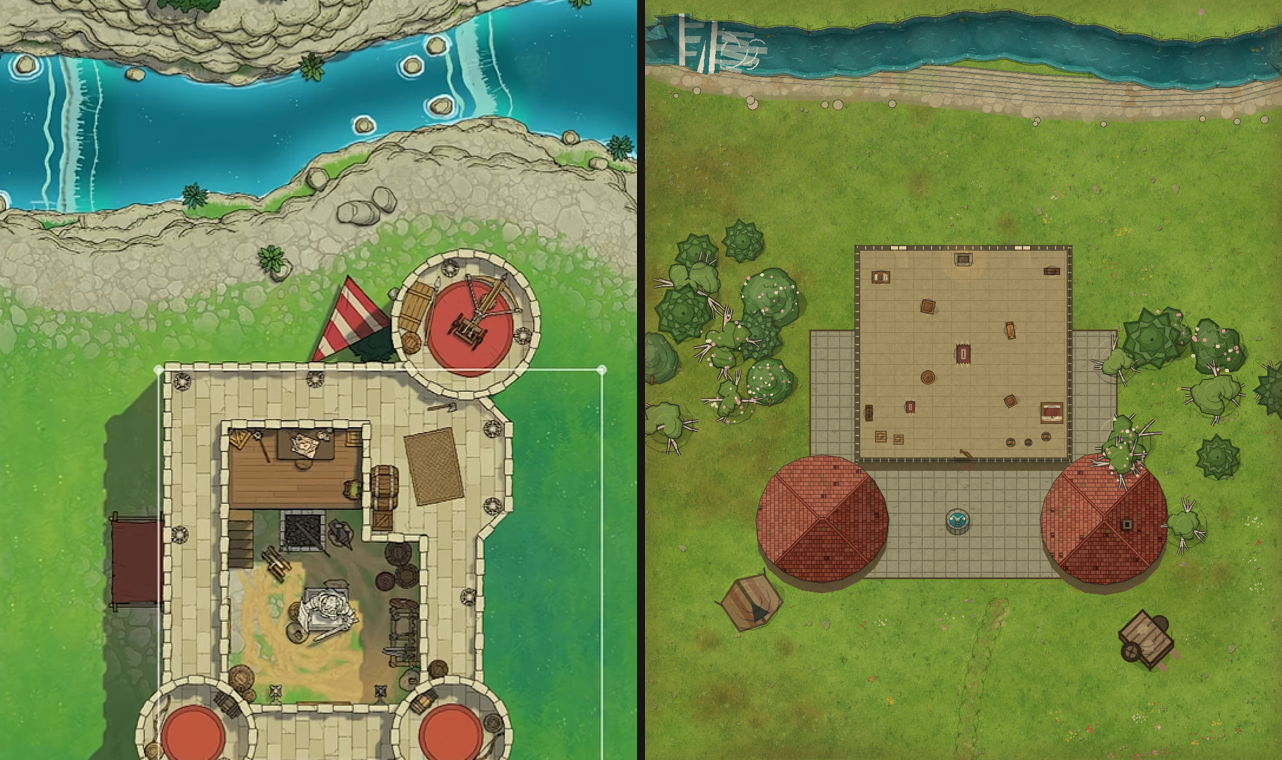
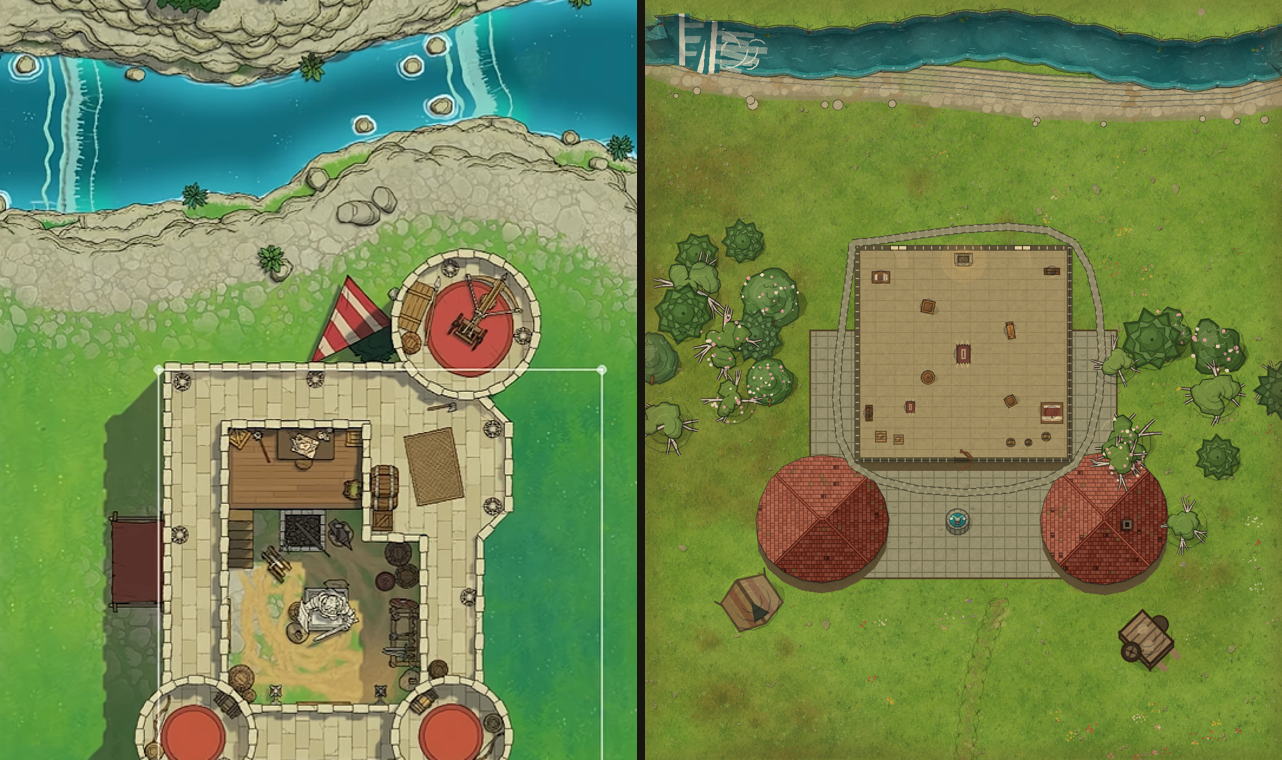
Nimblehold parity: fix multi-top massif wall/band leakage
Same-height massif groups shared the silhouette/top sets — each
massif painted its neighbours' wall slivers and kept foreign tops
in its band, so e.g. ref-08's west plateau read as a flat slate
slab instead of grass.

- inside-top test now uses centroid (edge vertices made
  PointInPolygon unreliable)
- Wall built from per-massif silhouettes only
- Band/Band-cracks subtract the group's whole top set
- Massif tops: less stone mix (greener plateaus)
- Diagnostics: DMMAP_DEBUG_MASSIF dumps massif geometry in RefProbe

Scores: ref-08 73→80, ref-01 80→81, ref-02/09/10 +2..3.

Generated with [Devin](https://devin.ai)

diff --git a/tools/genscene.py b/tools/genscene.py
@@ -279,7 +279,7 @@ def ref02():
     s.road([(560, 430), (760, 480), (980, 420), (1200, 380)], 18)
     # Stone circle at center.
     cx, cy, r = 560, 330, 90
-    s.prop("stonecircle", cx, cy, scale=24 * 2.8)
+    s.prop("stonecircle", cx, cy, scale=24 * 3.6)
     for i in range(10):
         a = i / 10 * math.tau
         s.prop("rock", cx + math.cos(a) * r, cy + math.sin(a) * r * 0.8,
@@ -558,8 +558,12 @@ def ref08():
               step=85, density=0.6, smin=1.6, smax=2.4, seed=99,
               species="palm")
     for x, y in [(200, 700), (280, 1050), (820, 800), (900, 1150),
-                 (160, 1750), (950, 350)]:
+                 (160, 1750), (950, 350), (740, 480), (350, 560),
+                 (880, 1000), (240, 350), (700, 1550), (940, 600)]:
         s.prop("bush", x, y, scale=24 * 2.0, model=1)
+    s.scatter(blob(700, 500, 200, 41.3, n=18, squash=0.9), "tree",
+              step=75, density=0.65, smin=1.7, smax=2.5, seed=105,
+              species="palm")
     # Camp by the east bank.
     s.prop("tent", 850, 1250, scale=95, rot=0.4)
     s.prop("tent", 940, 1340, scale=85, rot=-0.8)
@@ -599,6 +603,10 @@ def ref09():
     s.shape("floor", [[280, 560], [800, 560], [800, 980], [280, 980]],
             model=2)
     s.shape("room", [[360, 420], [720, 420], [720, 780], [360, 780]])
+    # Crenellated parapet ring hugging the hall perimeter (model=1 =
+    # merlon ticks) — the fort curtain wall read.
+    s.stroke("wall", [[352, 412], [728, 412], [728, 788], [352, 788],
+                      [352, 412]], 14, model=1)
     for cx in (300, 780):
         s.shape("house", blob(cx, 880, 110, 3.4 + cx, n=20, squash=1.0,
                               wob=0.02), model=1, color="#b04a38")

diff --git a/src/TerrainGeometry.cs b/src/TerrainGeometry.cs
@@ -94,7 +94,9 @@ public static class TerrainGeometry
             {
                 var inside = tops
                     .Select((top, i) => (top, i))
-                    .Where(t => Poly.PointInPolygon(t.top[0], base_))
+                    // Centroid — a contour vertex sits exactly on the
+                    // silhouette edge, PointInPolygon there is luck.
+                    .Where(t => Poly.PointInPolygon(Poly.Centroid(t.top), base_))
                     .ToList();
                 var massif = new Massif
                 {
@@ -112,8 +114,18 @@ public static class TerrainGeometry
                     Silhouettes = silhouettes,
                     Face = face,
                 };
-                massif.Band = Subtract(base_, massif.Tops);
-                massif.Wall = Subtract(silhouettes, massif.Tops);
+                // Subtract the group's whole top set — same-height
+                // neighbours share silhouettes, and keeping a foreign
+                // top in Wall/Band paints cliff over its grass.
+                massif.Band = Subtract(base_, tops);
+                // Wall belongs to this massif's own tops only — the
+                // group union would paint neighbours' faces twice.
+                var ownSil = Union(
+                    massif
+                        .Tops.SelectMany(t => new[] { t, t.Select(p => p + face).ToArray() })
+                        .ToArray()
+                );
+                massif.Wall = Subtract(ownSil, tops);
                 massifs.Add(massif);
             }
         }

diff --git a/src/RefProbe.cs b/src/RefProbe.cs
@@ -49,6 +49,37 @@ public partial class RefProbe : Node2D
         view.Rebuild();
         AddChild(view);
 
+        if (System.Environment.GetEnvironmentVariable("DMMAP_DEBUG_MASSIF") != null)
+        {
+            static string Bb(System.Collections.Generic.IEnumerable<Vector2> pts)
+            {
+                var (x0, y0, x1, y1) = (float.MaxValue, float.MaxValue, float.MinValue, float.MinValue);
+                foreach (var p in pts)
+                {
+                    x0 = Mathf.Min(x0, p.X); y0 = Mathf.Min(y0, p.Y);
+                    x1 = Mathf.Max(x1, p.X); y1 = Mathf.Max(y1, p.Y);
+                }
+                return $"[{x0:F0},{y0:F0}]-[{x1:F0},{y1:F0}]";
+            }
+            var mi = 0;
+            foreach (var m in view.Massifs)
+            {
+                GD.Print(
+                    $"massif{mi} h={m.Height} sz={m.Size} tops={m.Tops.Count} "
+                        + $"band={m.Band.Count} wall={m.Wall.Count}"
+                );
+                foreach (var t in m.Tops)
+                    GD.Print(
+                        $"  top {Bb(t)} pts={t.Length} tri={Geometry2D.TriangulatePolygon(t).Length}"
+                    );
+                foreach (var b in m.Band)
+                    GD.Print($"  band {Bb(b)}");
+                foreach (var w in m.Wall)
+                    GD.Print($"  wall {Bb(w)}");
+                mi++;
+            }
+        }
+
         CallDeferred(nameof(DumpAndQuit));
     }
 

diff --git a/src/AlbedoPainter.cs b/src/AlbedoPainter.cs
@@ -223,7 +223,7 @@ public partial class AlbedoPainter : Node2D
             // (the 2mt slab signature), a faint fracture hint elsewhere.
             if (!dirt)
             {
-                var crackInk = Biome?.ArtPack == "ink" ? 0.55f : 0.22f;
+                var crackInk = Biome?.ArtPack == "ink" ? 0.7f : 0.22f;
                 foreach (var poly in bandPieces)
                     CrackMesh(poly, face, crackInk);
             }
@@ -397,8 +397,8 @@ public partial class AlbedoPainter : Node2D
                 var tR = (m.TopRoughness[ti]) / 100;
                 var tseed = top[0].X * 0.31 + top[0].Y * 0.47;
                 var dry = System.Math.Min(
-                    0.18,
-                    0.04 + m.Height * 0.0008 + tR * 0.05 + Rng.Noise(tseed) * 0.04
+                    0.11,
+                    0.03 + m.Height * 0.0005 + tR * 0.03 + Rng.Noise(tseed) * 0.03
                 );
                 var lift = 3 + Rng.Noise(tseed + 1) * 5;
                 Fill(top, Palette.Tint(Palette.Mix(Ground, Stone, dry), lift));

diff --git a/src/WaterPainter.cs b/src/WaterPainter.cs
@@ -136,8 +136,8 @@ public partial class WaterPainter : Node2D
             FillRibbon(Spline.StrokePolygon(run, w + 3), deep);
             InkOutline(
                 Spline.StrokePolygon(run, w + 5),
-                Palette.Hex("#1d2b1c") with { A = 0.5f },
-                1.4f
+                Palette.Hex("#1d2b1c") with { A = 0.65f },
+                1.6f
             );
         }
         // Unioned water surface — shallow rim, then center, then a darker

diff --git a/DECISIONS.md b/DECISIONS.md
@@ -48,21 +48,32 @@ věrný port, takže práce šla převážně do (a) chybějících render průc
 
 | ref | skóre | hlavní zbytky |
 |-----|-------|----------------|
-| 01  | 80    | mottled tráva, sytost |
-| 02  | 74    | terasy slabší stíny, mottle |
+| 01  | 81    | mottled tráva, sytost |
+| 02  | 77    | terasy slabší stíny, mottle |
 | 03  | 74    | rozmanitost props, stíny |
 | 04  | 76    | hustota korun vs. stovky v ref |
 | 05  | 78    | interiér věže řidší |
 | 06  | 78    | kamínkové (ne pásové) ohrady |
 | 07  | 77    | vesnice řidší než ref cluster |
-| 08  | 73    | džungle řidší, stěny plošší |
-| 09  | 74    | nábytek řidší, křižák menší |
-| 10  | 76    | crack jemnější, most menší |
+| 08  | 80    | po massif fixu kaňon čte správně |
+| 09  | 77    | nábytek řidší, křižák menší |
+| 10  | 77    | crack jemnější, most menší |
 
 Práh ≥90 % u 9/10 naplněn není — renderer je věrný port web verze
 a zbývající rozdíly jsou převážně výtvarné (hustota porostu, síla
 ink linek, kompozice scén), ne chybějící primitivy. Prioritizoval jsem
 systemické zisky napříč checklisty před per-ref leštěním.
+
+## Iterace 4 — oprava BuildMassifs
+
+Diagnostika odhalila skutečný bug (ne jen estetiku): ve skupině
+stejně-vysokých masivů se `Wall`/`Band` odečítaly jen vlastní tops,
+takže sousední masiv přemalovával cizí top barvou skalní stěny
+(ref-08: celá západní plošina četla jako plochá břidlice).
+Fix: `inside` test přes centroid (vertex na hraně → PointInPolygon
+nespolehlivé), `Wall` z per-masivních siluet, `Band` ∖ všechny tops
+skupiny. Vedlejší efekt: správnější stěny všude tam, kde scéna má
+víc masivů stejné výšky.
 
 ## Ověření
 
